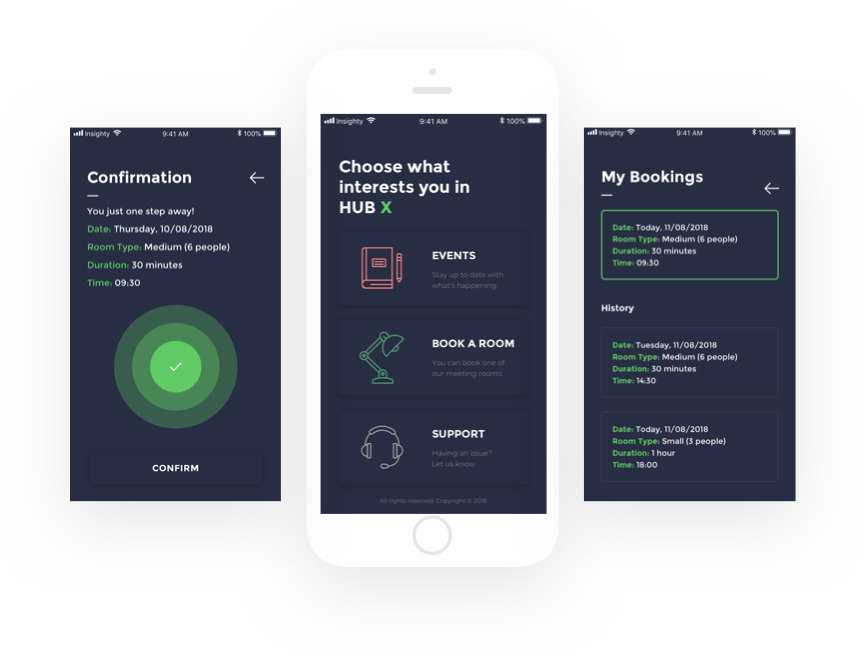
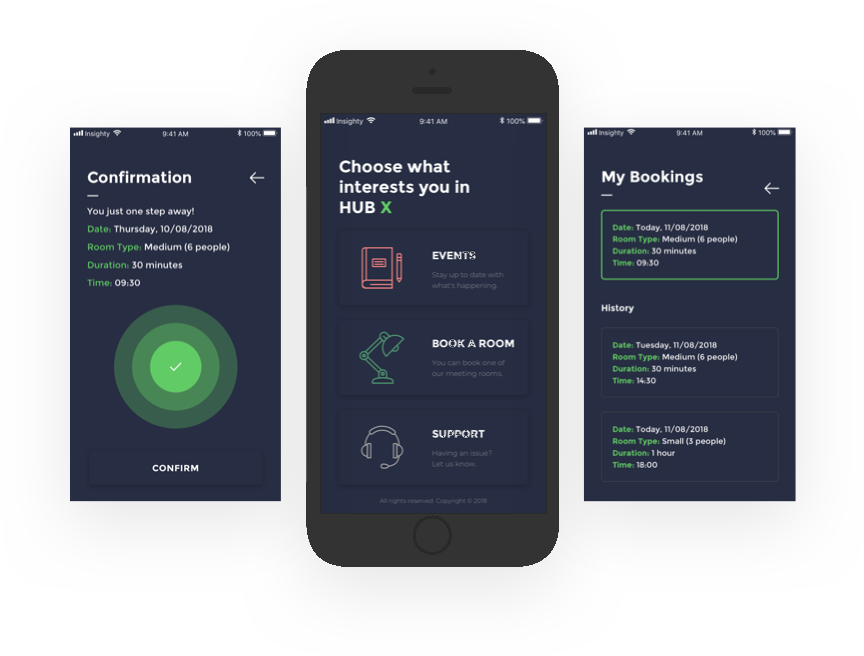
Change color of iPhone mock for Hub; Fix navbar not showing on Home

Changed region(s): [[0.3438, 0.061, 0.6562, 0.8841]]

diff --git a/src/app.js b/src/app.js
@@ -95,7 +95,8 @@ class App extends Component {
               && location.pathname !== '/betteryet'
               && location.pathname !== '/lpma'
               && location.pathname !== '/hub'
-              && location.pathname !== '/home') && <Header />}
+              && ((isMobile.phone && location.pathname !== '/home')
+              || (!isMobile.phone))) && <Header />}
             <ScrollToTop>
               <TransitionGroup>
                 <CSSTransition key={location.key} classNames="fade" timeout={450}>
